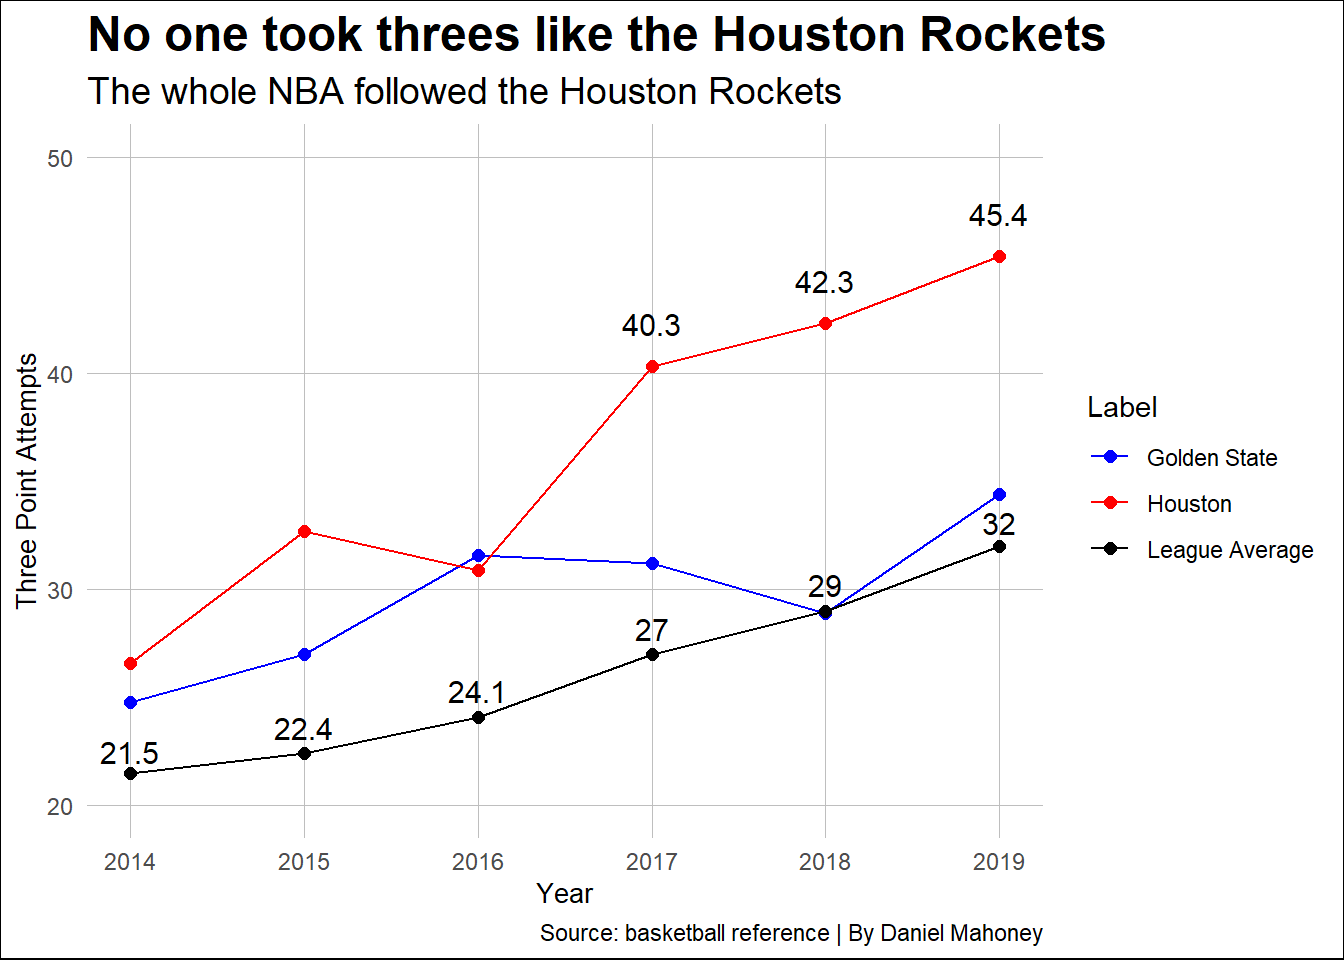
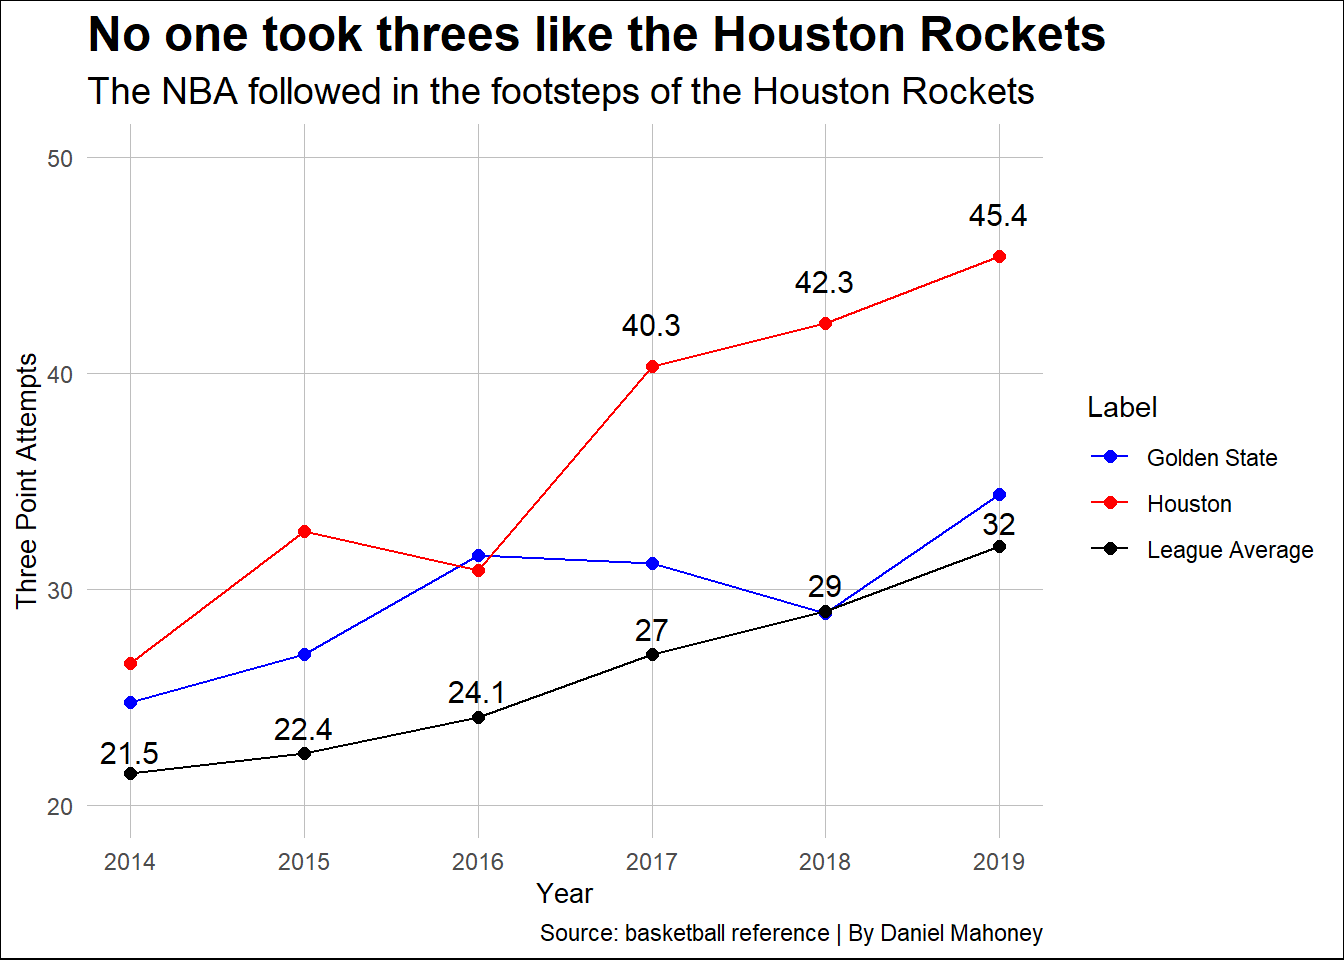
update index.html

Changed region(s): [[0.125, 0.0625, 0.7812, 0.125]]

diff --git a/posts/three-point-revolution/index.html b/posts/three-point-revolution/index.html
@@ -296,7 +296,7 @@ pre > code.sourceCode > span > a:first-child::before { text-decoration: underlin
 <span id="cb2-38"><a href="#cb2-38" aria-hidden="true" tabindex="-1"></a>  <span class="fu">labs</span>(</span>
 <span id="cb2-39"><a href="#cb2-39" aria-hidden="true" tabindex="-1"></a>    <span class="at">y =</span> <span class="st">"Three Point Attempts"</span>, <span class="at">x =</span> <span class="st">"Year"</span>,</span>
 <span id="cb2-40"><a href="#cb2-40" aria-hidden="true" tabindex="-1"></a>    <span class="at">title =</span> <span class="st">"No one took threes like the Houston Rockets"</span>,</span>
-<span id="cb2-41"><a href="#cb2-41" aria-hidden="true" tabindex="-1"></a>    <span class="at">subtitle =</span> <span class="st">"The whole NBA followed the Houston Rockets"</span>,</span>
+<span id="cb2-41"><a href="#cb2-41" aria-hidden="true" tabindex="-1"></a>    <span class="at">subtitle =</span> <span class="st">"The NBA followed in the footsteps of the Houston Rockets"</span>,</span>
 <span id="cb2-42"><a href="#cb2-42" aria-hidden="true" tabindex="-1"></a>    <span class="at">caption =</span> <span class="st">"Source: basketball reference | By Daniel Mahoney"</span>,  </span>
 <span id="cb2-43"><a href="#cb2-43" aria-hidden="true" tabindex="-1"></a>    <span class="at">color =</span> <span class="st">"Label"</span>  </span>
 <span id="cb2-44"><a href="#cb2-44" aria-hidden="true" tabindex="-1"></a>  ) <span class="sc">+</span></span>

diff --git a/index.html b/index.html
@@ -205,7 +205,7 @@ window.Quarto = {
 
 <div class="quarto-listing quarto-listing-container-default" id="listing-listing">
 <div class="list quarto-listing-default">
-<div class="quarto-post image-right" data-index="0" data-categories="YmFza2V0YmFsbCxuYmEsc3RlcGg=" data-listing-date-sort="1733205600000" data-listing-file-modified-sort="1733547478781" data-listing-date-modified-sort="NaN" data-listing-reading-time-sort="15" data-listing-word-count-sort="2929">
+<div class="quarto-post image-right" data-index="0" data-categories="YmFza2V0YmFsbCxuYmEsc3RlcGg=" data-listing-date-sort="1733205600000" data-listing-file-modified-sort="1733547762869" data-listing-date-modified-sort="NaN" data-listing-reading-time-sort="15" data-listing-word-count-sort="2932">
 <div class="thumbnail">
 <p><a href="./posts/three-point-revolution/index.html" class="no-external"></a></p><a href="./posts/three-point-revolution/index.html" class="no-external">
 <p><img loading="lazy" src="./posts/three-point-revolution/image.png" class="thumbnail-image"></p>
